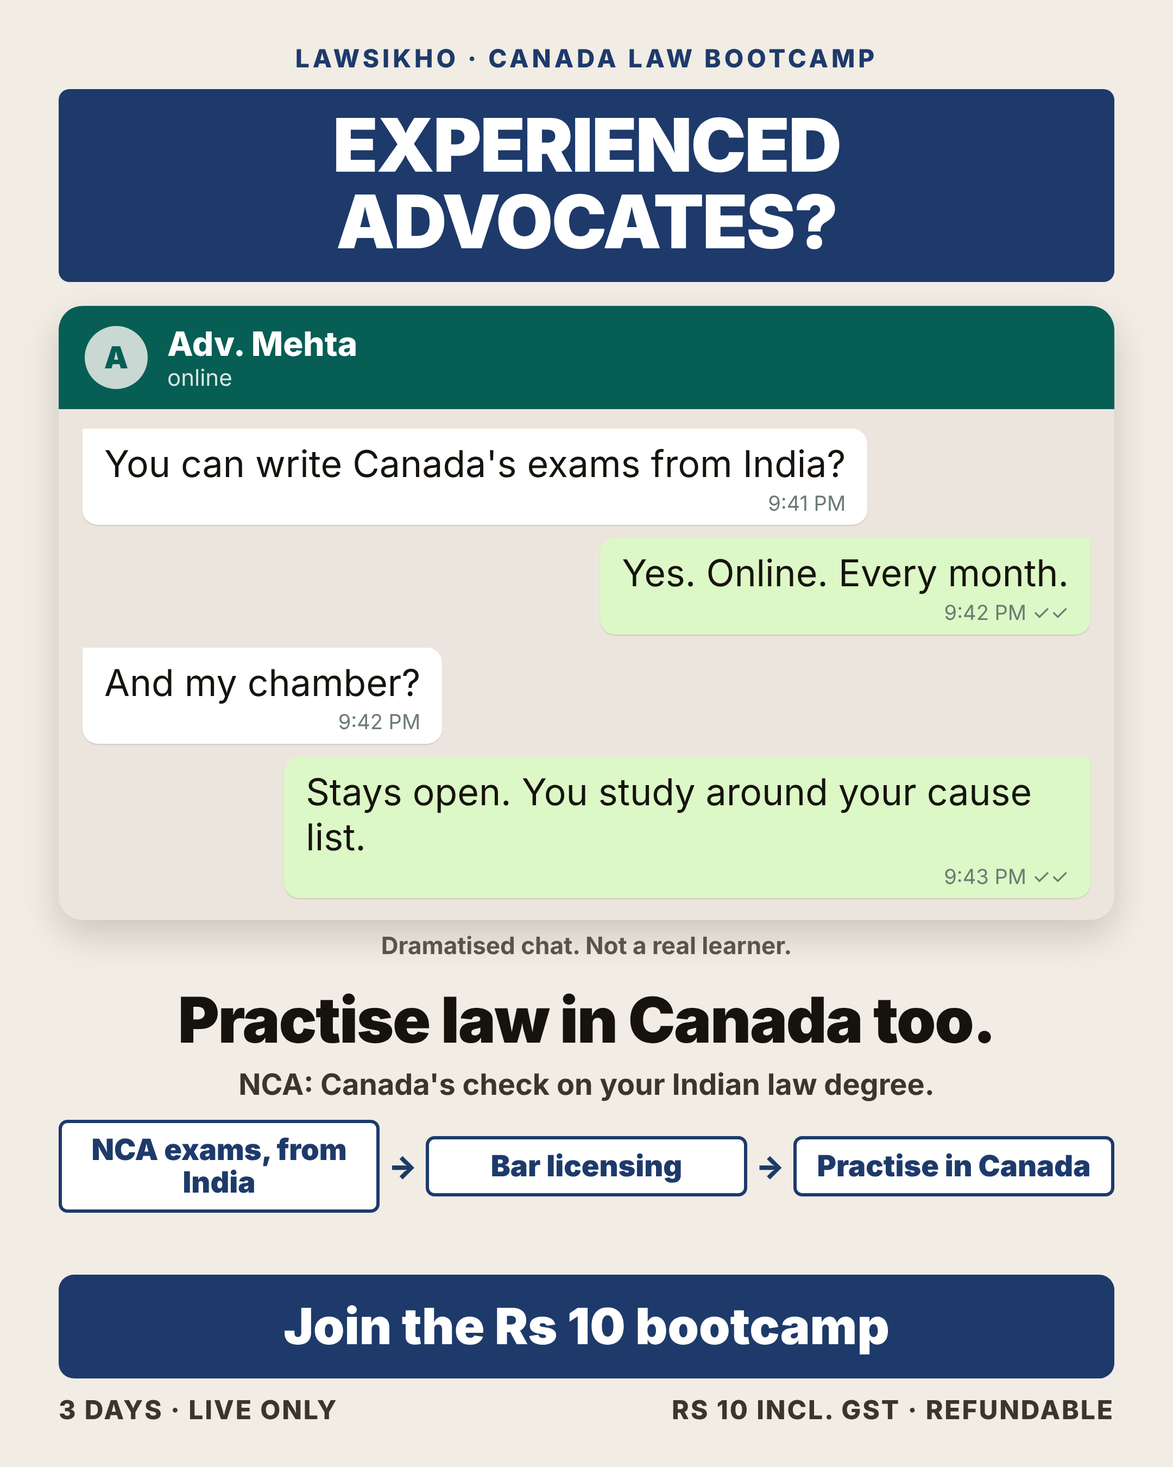
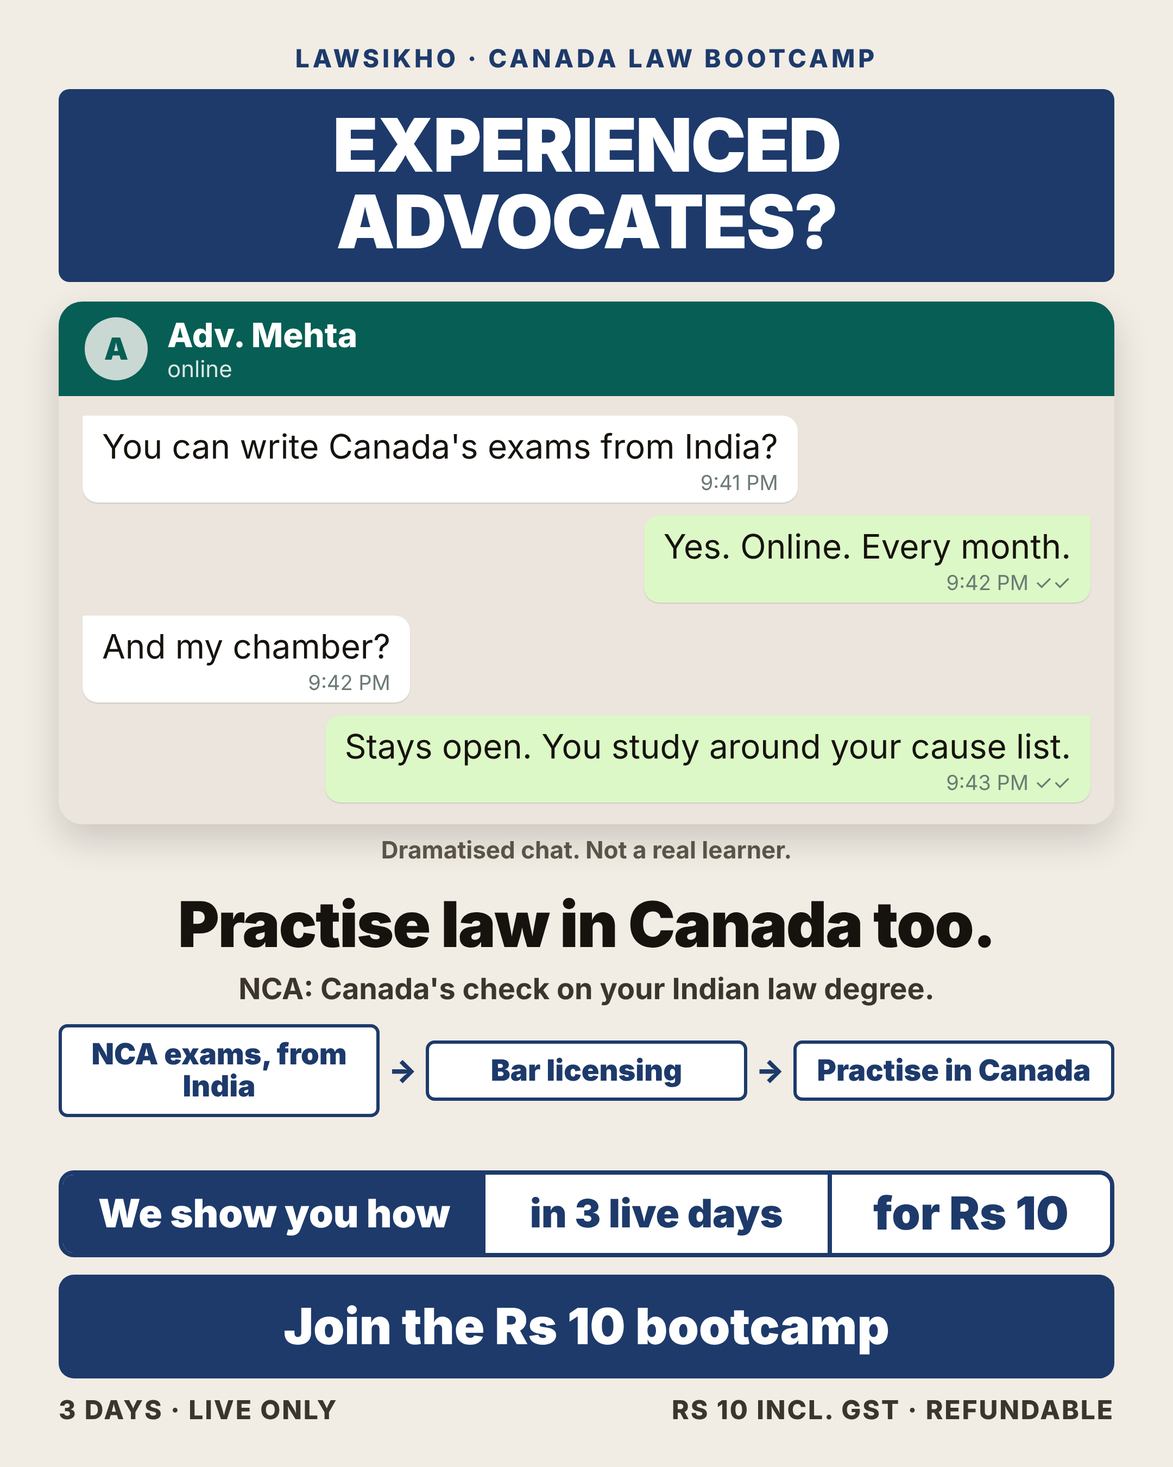
Add 'We show you how, in 3 live days, for Rs 10' band to concept faces
Claude-Session: https://claude.ai/code/session_014GwCGjjynk2ro1PwVfGZP6

Changed region(s): [[0.031, 0.4044, 0.9616, 0.8711], [0.031, 0.1867, 0.9616, 0.4356]]

diff --git a/creatives/NCA_Concepts_31Oct-2Nov/html/nca_c_02_causelist_litigators.html b/creatives/NCA_Concepts_31Oct-2Nov/html/nca_c_02_causelist_litigators.html
@@ -9,23 +9,25 @@ body{font-family:Inter,'Noto Color Emoji',sans-serif;background:#EEF2EA;color:#1
 .chips .s{flex:1;background:#fff;color:#2F5D3A;border:3px solid #2F5D3A;border-radius:8px;text-align:center;font-size:27px;font-weight:900;padding:10px 4px;line-height:1.1}
 .chips .a{font-weight:900;font-size:28px;color:#2F5D3A}
 .grow{flex:1;min-height:12px}
-.bigbtn{margin-top:24px;background:#2F5D3A;color:#fff;text-align:center;font-size:46px;font-weight:900;padding:20px 30px;border-radius:14px}
+.bigbtn{margin-top:16px;background:#2F5D3A;color:#fff;text-align:center;font-size:46px;font-weight:900;padding:20px 30px;border-radius:14px}
 .foot{display:flex;justify-content:space-between;margin-top:14px;font-size:24px;font-weight:800;letter-spacing:.06em;text-transform:uppercase;color:#3B352C}
+.how{flex:none;display:flex;align-items:stretch;margin-top:20px;border:4px solid #2F5D3A;border-radius:14px;overflow:hidden;font-weight:900;text-align:center}
+.how div{display:flex;align-items:center;justify-content:center;padding:14px 10px;font-size:36px;line-height:1.05}
+.hw{flex:1.25;background:#2F5D3A;color:#fff}.h3{flex:1;background:#fff;color:#2F5D3A}.h10{flex:.8;background:#fff;color:#2F5D3A;border-left:4px solid #2F5D3A;font-size:42px!important}
 .lbl{font-size:22px;font-weight:700;color:#5A5348;text-align:center;margin-top:10px}
 .paper{margin-top:22px;flex:1;background:#FFFEF8;border:3px solid #2A2A20;padding:30px 30px;display:flex;flex-direction:column;font-family:'Bitstream Charter',Caladea,serif}
 .ttl{text-align:center;font-size:36px;font-weight:700;letter-spacing:.08em;border-bottom:2px solid #2A2A20;padding-bottom:10px}
 .sub{text-align:center;font-family:Inter,sans-serif;font-size:22px;font-weight:700;color:#5A5A48;margin:8px 0 12px}
-table{width:100%;flex:1;border-collapse:collapse;font-size:38px}
+table{width:100%;flex:1;border-collapse:collapse;font-size:36px}
 td,th{border:2px solid #2A2A20;padding:10px 16px;text-align:left}
 th{font-family:Inter,sans-serif;font-size:22px;letter-spacing:.1em;text-transform:uppercase;background:#E8E8D8}
-tr.hi td{background:#2F5D3A;color:#fff;font-weight:700;font-size:42px}</style></head><body><div class="rail">LawSikho · Canada law bootcamp</div><div class="callout">In court every week?</div>
+tr.hi td{background:#2F5D3A;color:#fff;font-weight:700;font-size:40px}</style></head><body><div class="rail">LawSikho · Canada law bootcamp</div><div class="callout">In court every week?</div>
 <div class="paper"><div class="ttl">CAUSE LIST</div><div class="sub">A dramatised list. Issued by LawSikho.</div>
 <table><tr><th>Item</th><th>Matter</th><th>Status</th></tr>
-<tr><td>11</td><td>Stay application</td><td>Listed</td></tr>
 <tr><td>12</td><td>Bail application</td><td>Listed</td></tr>
 <tr><td>13</td><td>Written statement</td><td>Listed</td></tr>
 <tr class="hi"><td>14</td><td>Canada qualification</td><td>Pick your exam month</td></tr>
-<tr><td>15</td><td>Final arguments</td><td>Listed</td></tr>
-<tr><td>16</td><td>Evidence</td><td>Listed</td></tr></table></div>
-<div class="head">Add Canada to your cause list.</div><div class="gloss">NCA: Canada's check on your Indian law degree.</div><div class="chips"><div class="s">NCA exams, from India</div><div class="a">&#8594;</div><div class="s">Bar licensing</div><div class="a">&#8594;</div><div class="s">Practise in Canada</div></div><div class="grow"></div><div class="bigbtn">Join the Rs 10 bootcamp</div>
+<tr><td>15</td><td>Final arguments</td><td>Listed</td></tr></table></div>
+<div class="head">Add Canada to your cause list.</div><div class="gloss">NCA: Canada's check on your Indian law degree.</div><div class="chips"><div class="s">NCA exams, from India</div><div class="a">&#8594;</div><div class="s">Bar licensing</div><div class="a">&#8594;</div><div class="s">Practise in Canada</div></div><div class="how"><div class="hw">We show you how</div><div class="h3">in 3 live days</div><div class="h10">for Rs 10</div></div>
+<div class="bigbtn">Join the Rs 10 bootcamp</div>
 <div class="foot"><div>3 days · Live only</div><div>Rs 10 incl. GST · Refundable</div></div></body></html>

diff --git a/creatives/NCA_Concepts_31Oct-2Nov/html/nca_c_01_chat_advocates.html b/creatives/NCA_Concepts_31Oct-2Nov/html/nca_c_01_chat_advocates.html
@@ -9,15 +9,18 @@ body{font-family:Inter,'Noto Color Emoji',sans-serif;background:#F1ECE4;color:#1
 .chips .s{flex:1;background:#fff;color:#1D3A6B;border:3px solid #1D3A6B;border-radius:8px;text-align:center;font-size:27px;font-weight:900;padding:10px 4px;line-height:1.1}
 .chips .a{font-weight:900;font-size:28px;color:#1D3A6B}
 .grow{flex:1;min-height:12px}
-.bigbtn{margin-top:24px;background:#1D3A6B;color:#fff;text-align:center;font-size:46px;font-weight:900;padding:20px 30px;border-radius:14px}
+.bigbtn{margin-top:16px;background:#1D3A6B;color:#fff;text-align:center;font-size:46px;font-weight:900;padding:20px 30px;border-radius:14px}
 .foot{display:flex;justify-content:space-between;margin-top:14px;font-size:24px;font-weight:800;letter-spacing:.06em;text-transform:uppercase;color:#3B352C}
+.how{flex:none;display:flex;align-items:stretch;margin-top:20px;border:4px solid #1D3A6B;border-radius:14px;overflow:hidden;font-weight:900;text-align:center}
+.how div{display:flex;align-items:center;justify-content:center;padding:14px 10px;font-size:36px;line-height:1.05}
+.hw{flex:1.25;background:#1D3A6B;color:#fff}.h3{flex:1;background:#fff;color:#1D3A6B}.h10{flex:.8;background:#fff;color:#1D3A6B;border-left:4px solid #1D3A6B;font-size:42px!important}
 .lbl{font-size:22px;font-weight:700;color:#5A5348;text-align:center;margin-top:10px}
-.phone{margin-top:22px;border-radius:22px;overflow:hidden;box-shadow:0 14px 34px rgba(0,0,0,.16)}
-.top{background:#075E54;color:#fff;display:flex;align-items:center;gap:18px;padding:16px 24px}
+.phone{flex:none;margin-top:18px;border-radius:22px;overflow:hidden;box-shadow:0 14px 34px rgba(0,0,0,.16)}
+.top{background:#075E54;color:#fff;display:flex;align-items:center;gap:18px;padding:12px 24px}
 .av{width:58px;height:58px;border-radius:50%;background:#C9D8D3;color:#075E54;font-weight:900;font-size:28px;display:flex;align-items:center;justify-content:center}
 .nm{font-size:31px;font-weight:800}.st{font-size:21px;opacity:.85}
 .wall{background:#ECE5DD;padding:18px 22px 20px;display:flex;flex-direction:column;gap:12px}
-.b{max-width:80%;font-size:34px;line-height:1.22;padding:12px 20px 8px;border-radius:14px;box-shadow:0 1px 1px rgba(0,0,0,.12)}
+.b{max-width:80%;font-size:31px;line-height:1.2;padding:10px 18px 6px;border-radius:14px;box-shadow:0 1px 1px rgba(0,0,0,.12)}
 .me{align-self:flex-end;background:#DCF8C6;border-top-right-radius:2px}
 .fr{align-self:flex-start;background:#fff;border-top-left-radius:2px}
 .t{display:block;text-align:right;font-size:19px;color:#6B7B74;margin-top:4px}</style></head><body><div class="rail">LawSikho · Canada law bootcamp</div><div class="callout">Experienced advocates?</div>
@@ -29,5 +32,6 @@ body{font-family:Inter,'Noto Color Emoji',sans-serif;background:#F1ECE4;color:#1
 <div class="b me">Stays open. You study around your cause list.<span class="t">9:43 PM ✓✓</span></div>
 </div></div>
 <div class="lbl">Dramatised chat. Not a real learner.</div>
-<div class="head">Practise law in Canada too.</div><div class="gloss">NCA: Canada's check on your Indian law degree.</div><div class="chips"><div class="s">NCA exams, from India</div><div class="a">&#8594;</div><div class="s">Bar licensing</div><div class="a">&#8594;</div><div class="s">Practise in Canada</div></div><div class="grow"></div><div class="bigbtn">Join the Rs 10 bootcamp</div>
+<div class="head">Practise law in Canada too.</div><div class="gloss">NCA: Canada's check on your Indian law degree.</div><div class="chips"><div class="s">NCA exams, from India</div><div class="a">&#8594;</div><div class="s">Bar licensing</div><div class="a">&#8594;</div><div class="s">Practise in Canada</div></div><div class="grow"></div><div class="how"><div class="hw">We show you how</div><div class="h3">in 3 live days</div><div class="h10">for Rs 10</div></div>
+<div class="bigbtn">Join the Rs 10 bootcamp</div>
 <div class="foot"><div>3 days · Live only</div><div>Rs 10 incl. GST · Refundable</div></div></body></html>

diff --git a/creatives/NCA_Concepts_31Oct-2Nov/html/nca_c_08_calendar_associates.html b/creatives/NCA_Concepts_31Oct-2Nov/html/nca_c_08_calendar_associates.html
@@ -9,8 +9,11 @@ body{font-family:Inter,'Noto Color Emoji',sans-serif;background:#F4EEFA;color:#1
 .chips .s{flex:1;background:#fff;color:#5B2C83;border:3px solid #5B2C83;border-radius:8px;text-align:center;font-size:27px;font-weight:900;padding:10px 4px;line-height:1.1}
 .chips .a{font-weight:900;font-size:28px;color:#5B2C83}
 .grow{flex:1;min-height:12px}
-.bigbtn{margin-top:24px;background:#5B2C83;color:#fff;text-align:center;font-size:46px;font-weight:900;padding:20px 30px;border-radius:14px}
+.bigbtn{margin-top:16px;background:#5B2C83;color:#fff;text-align:center;font-size:46px;font-weight:900;padding:20px 30px;border-radius:14px}
 .foot{display:flex;justify-content:space-between;margin-top:14px;font-size:24px;font-weight:800;letter-spacing:.06em;text-transform:uppercase;color:#3B352C}
+.how{flex:none;display:flex;align-items:stretch;margin-top:20px;border:4px solid #5B2C83;border-radius:14px;overflow:hidden;font-weight:900;text-align:center}
+.how div{display:flex;align-items:center;justify-content:center;padding:14px 10px;font-size:36px;line-height:1.05}
+.hw{flex:1.25;background:#5B2C83;color:#fff}.h3{flex:1;background:#fff;color:#5B2C83}.h10{flex:.8;background:#fff;color:#5B2C83;border-left:4px solid #5B2C83;font-size:42px!important}
 .lbl{font-size:22px;font-weight:700;color:#5A5348;text-align:center;margin-top:10px}
 .cal{margin-top:24px;flex:1;grid-auto-rows:1fr;background:#fff;border:3px solid #5B2C83;border-radius:16px;padding:22px;display:grid;grid-template-columns:repeat(4,1fr);gap:14px}
 .m{border:2px solid #CFC3DD;border-radius:12px;display:flex;flex-direction:column;align-items:center;justify-content:center;text-align:center;font-size:52px;font-weight:800;color:#4A3B5C}
@@ -18,5 +21,6 @@ body{font-family:Inter,'Noto Color Emoji',sans-serif;background:#F4EEFA;color:#1
 .sm{font-size:22px;font-weight:700;display:block;margin-top:4px}</style></head><body><div class="rail">LawSikho · Canada law bootcamp</div><div class="callout">Law firm associates?</div>
 <div class="cal"><div class="m">Jan</div><div class="m">Feb</div><div class="m on">Your exam month<span class="sm">Mar</span></div><div class="m">Apr</div><div class="m">May</div><div class="m">Jun</div><div class="m">Jul</div><div class="m">Aug</div><div class="m">Sep</div><div class="m">Oct</div><div class="m">Nov</div><div class="m">Dec</div></div>
 <div class="lbl">Sample calendar</div>
-<div class="head">Pick the month. Qualify in Canada.</div><div class="gloss">The exams are online, from India. Choose them around your billable hours.</div><div class="gloss">NCA: Canada's check on your Indian law degree.</div><div class="bigbtn">Join the Rs 10 bootcamp</div>
+<div class="head">Pick the month. Qualify in Canada.</div><div class="gloss">The exams are online, from India. Choose them around your billable hours.</div><div class="gloss">NCA: Canada's check on your Indian law degree.</div><div class="how"><div class="hw">We show you how</div><div class="h3">in 3 live days</div><div class="h10">for Rs 10</div></div>
+<div class="bigbtn">Join the Rs 10 bootcamp</div>
 <div class="foot"><div>3 days · Live only</div><div>Rs 10 incl. GST · Refundable</div></div></body></html>

diff --git a/creatives/NCA_Concepts_31Oct-2Nov/html/nca_c_04_card_fresh_grads.html b/creatives/NCA_Concepts_31Oct-2Nov/html/nca_c_04_card_fresh_grads.html
@@ -9,8 +9,11 @@ body{font-family:Inter,'Noto Color Emoji',sans-serif;background:#FBEFE6;color:#1
 .chips .s{flex:1;background:#fff;color:#B2451E;border:3px solid #B2451E;border-radius:8px;text-align:center;font-size:27px;font-weight:900;padding:10px 4px;line-height:1.1}
 .chips .a{font-weight:900;font-size:28px;color:#B2451E}
 .grow{flex:1;min-height:12px}
-.bigbtn{margin-top:24px;background:#B2451E;color:#fff;text-align:center;font-size:46px;font-weight:900;padding:20px 30px;border-radius:14px}
+.bigbtn{margin-top:16px;background:#B2451E;color:#fff;text-align:center;font-size:46px;font-weight:900;padding:20px 30px;border-radius:14px}
 .foot{display:flex;justify-content:space-between;margin-top:14px;font-size:24px;font-weight:800;letter-spacing:.06em;text-transform:uppercase;color:#3B352C}
+.how{flex:none;display:flex;align-items:stretch;margin-top:20px;border:4px solid #B2451E;border-radius:14px;overflow:hidden;font-weight:900;text-align:center}
+.how div{display:flex;align-items:center;justify-content:center;padding:14px 10px;font-size:36px;line-height:1.05}
+.hw{flex:1.25;background:#B2451E;color:#fff}.h3{flex:1;background:#fff;color:#B2451E}.h10{flex:.8;background:#fff;color:#B2451E;border-left:4px solid #B2451E;font-size:42px!important}
 .lbl{font-size:22px;font-weight:700;color:#5A5348;text-align:center;margin-top:10px}
 .card{margin:34px auto 0;width:930px;flex:1;margin-bottom:10px;background:#fff;border-radius:18px;box-shadow:0 18px 40px rgba(120,60,20,.22);border-left:22px solid #B2451E;padding:44px 52px;display:flex;flex-direction:column;justify-content:center;transform:rotate(-2deg)}
 .n{font-size:92px;font-weight:900;letter-spacing:-.02em}
@@ -20,5 +23,6 @@ body{font-family:Inter,'Noto Color Emoji',sans-serif;background:#FBEFE6;color:#1
 <div class="card"><div class="n">Your Name</div><div class="d">LLB (India)</div>
 <div class="q">Canada-qualified lawyer</div><div class="ip">In progress. One exam at a time, from India.</div></div>
 <div class="lbl">Sample card</div>
-<div class="head">Qualify as a lawyer in Canada.</div><div class="gloss">NCA: Canada's check on your Indian law degree.</div><div class="chips"><div class="s">NCA exams, from India</div><div class="a">&#8594;</div><div class="s">Bar licensing</div><div class="a">&#8594;</div><div class="s">Practise in Canada</div></div><div class="bigbtn">Join the Rs 10 bootcamp</div>
+<div class="head">Qualify as a lawyer in Canada.</div><div class="gloss">NCA: Canada's check on your Indian law degree.</div><div class="chips"><div class="s">NCA exams, from India</div><div class="a">&#8594;</div><div class="s">Bar licensing</div><div class="a">&#8594;</div><div class="s">Practise in Canada</div></div><div class="how"><div class="hw">We show you how</div><div class="h3">in 3 live days</div><div class="h10">for Rs 10</div></div>
+<div class="bigbtn">Join the Rs 10 bootcamp</div>
 <div class="foot"><div>3 days · Live only</div><div>Rs 10 incl. GST · Refundable</div></div></body></html>

diff --git a/creatives/NCA_Concepts_31Oct-2Nov/html/nca_c_06_route_movers.html b/creatives/NCA_Concepts_31Oct-2Nov/html/nca_c_06_route_movers.html
@@ -9,8 +9,11 @@ body{font-family:Inter,'Noto Color Emoji',sans-serif;background:#EAF1F6;color:#1
 .chips .s{flex:1;background:#fff;color:#1F5C7A;border:3px solid #1F5C7A;border-radius:8px;text-align:center;font-size:27px;font-weight:900;padding:10px 4px;line-height:1.1}
 .chips .a{font-weight:900;font-size:28px;color:#1F5C7A}
 .grow{flex:1;min-height:12px}
-.bigbtn{margin-top:24px;background:#1F5C7A;color:#fff;text-align:center;font-size:46px;font-weight:900;padding:20px 30px;border-radius:14px}
+.bigbtn{margin-top:16px;background:#1F5C7A;color:#fff;text-align:center;font-size:46px;font-weight:900;padding:20px 30px;border-radius:14px}
 .foot{display:flex;justify-content:space-between;margin-top:14px;font-size:24px;font-weight:800;letter-spacing:.06em;text-transform:uppercase;color:#3B352C}
+.how{flex:none;display:flex;align-items:stretch;margin-top:20px;border:4px solid #1F5C7A;border-radius:14px;overflow:hidden;font-weight:900;text-align:center}
+.how div{display:flex;align-items:center;justify-content:center;padding:14px 10px;font-size:36px;line-height:1.05}
+.hw{flex:1.25;background:#1F5C7A;color:#fff}.h3{flex:1;background:#fff;color:#1F5C7A}.h10{flex:.8;background:#fff;color:#1F5C7A;border-left:4px solid #1F5C7A;font-size:42px!important}
 .lbl{font-size:22px;font-weight:700;color:#5A5348;text-align:center;margin-top:10px}
 .map{margin-top:26px;flex:1;display:flex;flex-direction:column;gap:0;position:relative}
 .st{flex:1;display:flex;align-items:center;gap:30px;background:#fff;border:3px solid #1F5C7A;border-radius:16px;padding:20px 30px}
@@ -22,5 +25,6 @@ body{font-family:Inter,'Noto Color Emoji',sans-serif;background:#EAF1F6;color:#1
 <div class="st"><div class="no">1</div><div><div class="tt">NCA exams</div><div class="ss">Written online, from India, before you move</div></div></div><div class="ln"></div>
 <div class="st"><div class="no">2</div><div><div class="tt">Bar licensing</div><div class="ss">Province by province</div></div></div><div class="ln"></div>
 <div class="st"><div class="no">3</div><div><div class="tt">Practise in Canada</div><div class="ss">With a Canadian qualification</div></div></div></div>
-<div class="head">Start Canada's exams from India.</div><div class="gloss">NCA: Canada's check on your Indian law degree.</div><div class="bigbtn">Join the Rs 10 bootcamp</div>
+<div class="head">Start Canada's exams from India.</div><div class="gloss">NCA: Canada's check on your Indian law degree.</div><div class="how"><div class="hw">We show you how</div><div class="h3">in 3 live days</div><div class="h10">for Rs 10</div></div>
+<div class="bigbtn">Join the Rs 10 bootcamp</div>
 <div class="foot"><div>3 days · Live only</div><div>Rs 10 incl. GST · Refundable</div></div></body></html>

diff --git a/creatives/NCA_Concepts_31Oct-2Nov/build.py b/creatives/NCA_Concepts_31Oct-2Nov/build.py
@@ -12,11 +12,15 @@ body{font-family:Inter,'Noto Color Emoji',sans-serif;background:%(bg)s;color:#16
 .chips .s{flex:1;background:#fff;color:%(ac)s;border:3px solid %(ac)s;border-radius:8px;text-align:center;font-size:27px;font-weight:900;padding:10px 4px;line-height:1.1}
 .chips .a{font-weight:900;font-size:28px;color:%(ac)s}
 .grow{flex:1;min-height:12px}
-.bigbtn{margin-top:24px;background:%(ac)s;color:#fff;text-align:center;font-size:46px;font-weight:900;padding:20px 30px;border-radius:14px}
+.bigbtn{margin-top:16px;background:%(ac)s;color:#fff;text-align:center;font-size:46px;font-weight:900;padding:20px 30px;border-radius:14px}
 .foot{display:flex;justify-content:space-between;margin-top:14px;font-size:24px;font-weight:800;letter-spacing:.06em;text-transform:uppercase;color:#3B352C}
+.how{flex:none;display:flex;align-items:stretch;margin-top:20px;border:4px solid %(ac)s;border-radius:14px;overflow:hidden;font-weight:900;text-align:center}
+.how div{display:flex;align-items:center;justify-content:center;padding:14px 10px;font-size:36px;line-height:1.05}
+.hw{flex:1.25;background:%(ac)s;color:#fff}.h3{flex:1;background:#fff;color:%(ac)s}.h10{flex:.8;background:#fff;color:%(ac)s;border-left:4px solid %(ac)s;font-size:42px!important}
 .lbl{font-size:22px;font-weight:700;color:#5A5348;text-align:center;margin-top:10px}
 """
-FOOT = """<div class="bigbtn">Join the Rs 10 bootcamp</div>
+FOOT = """<div class="how"><div class="hw">We show you how</div><div class="h3">in 3 live days</div><div class="h10">for Rs 10</div></div>
+<div class="bigbtn">Join the Rs 10 bootcamp</div>
 <div class="foot"><div>3 days · Live only</div><div>Rs 10 incl. GST · Refundable</div></div>"""
 RAIL = '<div class="rail">LawSikho · Canada law bootcamp</div>'
 GLOSS = '<div class="gloss">NCA: Canada\'s check on your Indian law degree.</div>'
@@ -26,12 +30,12 @@ def page(css, body, pal):
 
 def chat():  # 1 experienced advocates
     pal = dict(bg="#F1ECE4", ac="#1D3A6B")
-    css = """.phone{margin-top:22px;border-radius:22px;overflow:hidden;box-shadow:0 14px 34px rgba(0,0,0,.16)}
-.top{background:#075E54;color:#fff;display:flex;align-items:center;gap:18px;padding:16px 24px}
+    css = """.phone{flex:none;margin-top:18px;border-radius:22px;overflow:hidden;box-shadow:0 14px 34px rgba(0,0,0,.16)}
+.top{background:#075E54;color:#fff;display:flex;align-items:center;gap:18px;padding:12px 24px}
 .av{width:58px;height:58px;border-radius:50%%;background:#C9D8D3;color:#075E54;font-weight:900;font-size:28px;display:flex;align-items:center;justify-content:center}
 .nm{font-size:31px;font-weight:800}.st{font-size:21px;opacity:.85}
 .wall{background:#ECE5DD;padding:18px 22px 20px;display:flex;flex-direction:column;gap:12px}
-.b{max-width:80%%;font-size:34px;line-height:1.22;padding:12px 20px 8px;border-radius:14px;box-shadow:0 1px 1px rgba(0,0,0,.12)}
+.b{max-width:80%%;font-size:31px;line-height:1.2;padding:10px 18px 6px;border-radius:14px;box-shadow:0 1px 1px rgba(0,0,0,.12)}
 .me{align-self:flex-end;background:#DCF8C6;border-top-right-radius:2px}
 .fr{align-self:flex-start;background:#fff;border-top-left-radius:2px}
 .t{display:block;text-align:right;font-size:19px;color:#6B7B74;margin-top:4px}"""
@@ -52,20 +56,18 @@ def causelist():  # 2 litigators
     css = """.paper{margin-top:22px;flex:1;background:#FFFEF8;border:3px solid #2A2A20;padding:30px 30px;display:flex;flex-direction:column;font-family:'Bitstream Charter',Caladea,serif}
 .ttl{text-align:center;font-size:36px;font-weight:700;letter-spacing:.08em;border-bottom:2px solid #2A2A20;padding-bottom:10px}
 .sub{text-align:center;font-family:Inter,sans-serif;font-size:22px;font-weight:700;color:#5A5A48;margin:8px 0 12px}
-table{width:100%%;flex:1;border-collapse:collapse;font-size:38px}
+table{width:100%%;flex:1;border-collapse:collapse;font-size:36px}
 td,th{border:2px solid #2A2A20;padding:10px 16px;text-align:left}
 th{font-family:Inter,sans-serif;font-size:22px;letter-spacing:.1em;text-transform:uppercase;background:#E8E8D8}
-tr.hi td{background:%(ac)s;color:#fff;font-weight:700;font-size:42px}"""
+tr.hi td{background:%(ac)s;color:#fff;font-weight:700;font-size:40px}"""
     body = RAIL + """<div class="callout">In court every week?</div>
 <div class="paper"><div class="ttl">CAUSE LIST</div><div class="sub">A dramatised list. Issued by LawSikho.</div>
 <table><tr><th>Item</th><th>Matter</th><th>Status</th></tr>
-<tr><td>11</td><td>Stay application</td><td>Listed</td></tr>
 <tr><td>12</td><td>Bail application</td><td>Listed</td></tr>
 <tr><td>13</td><td>Written statement</td><td>Listed</td></tr>
 <tr class="hi"><td>14</td><td>Canada qualification</td><td>Pick your exam month</td></tr>
-<tr><td>15</td><td>Final arguments</td><td>Listed</td></tr>
-<tr><td>16</td><td>Evidence</td><td>Listed</td></tr></table></div>
-<div class="head">Add Canada to your cause list.</div>""" + GLOSS + CHIPS + '<div class="grow"></div>' + FOOT
+<tr><td>15</td><td>Final arguments</td><td>Listed</td></tr></table></div>
+<div class="head">Add Canada to your cause list.</div>""" + GLOSS + CHIPS  + FOOT
     return page(css, body, pal)
 
 def card():  # 4 fresh graduates

diff --git a/creatives/NCA_Concepts_31Oct-2Nov/ad_copy.md b/creatives/NCA_Concepts_31Oct-2Nov/ad_copy.md
@@ -1,6 +1,6 @@
 # NCA concept faces (5 of 10), 31 Oct to 2 Nov 2026
 
-Footer on all: Join the Rs 10 bootcamp. 3 days, live only. Rs 10 incl. GST, refundable.
+Footer on all: band "We show you how in 3 live days for Rs 10", button "Join the Rs 10 bootcamp", then 3 days, live only, Rs 10 incl. GST, refundable.
 Gloss on all: "NCA: Canada's check on your Indian law degree." Route chips: NCA exams, from India > Bar licensing > Practise in Canada (face 6 shows it as the map).
 
 | File | Call-out | Format | Head |
